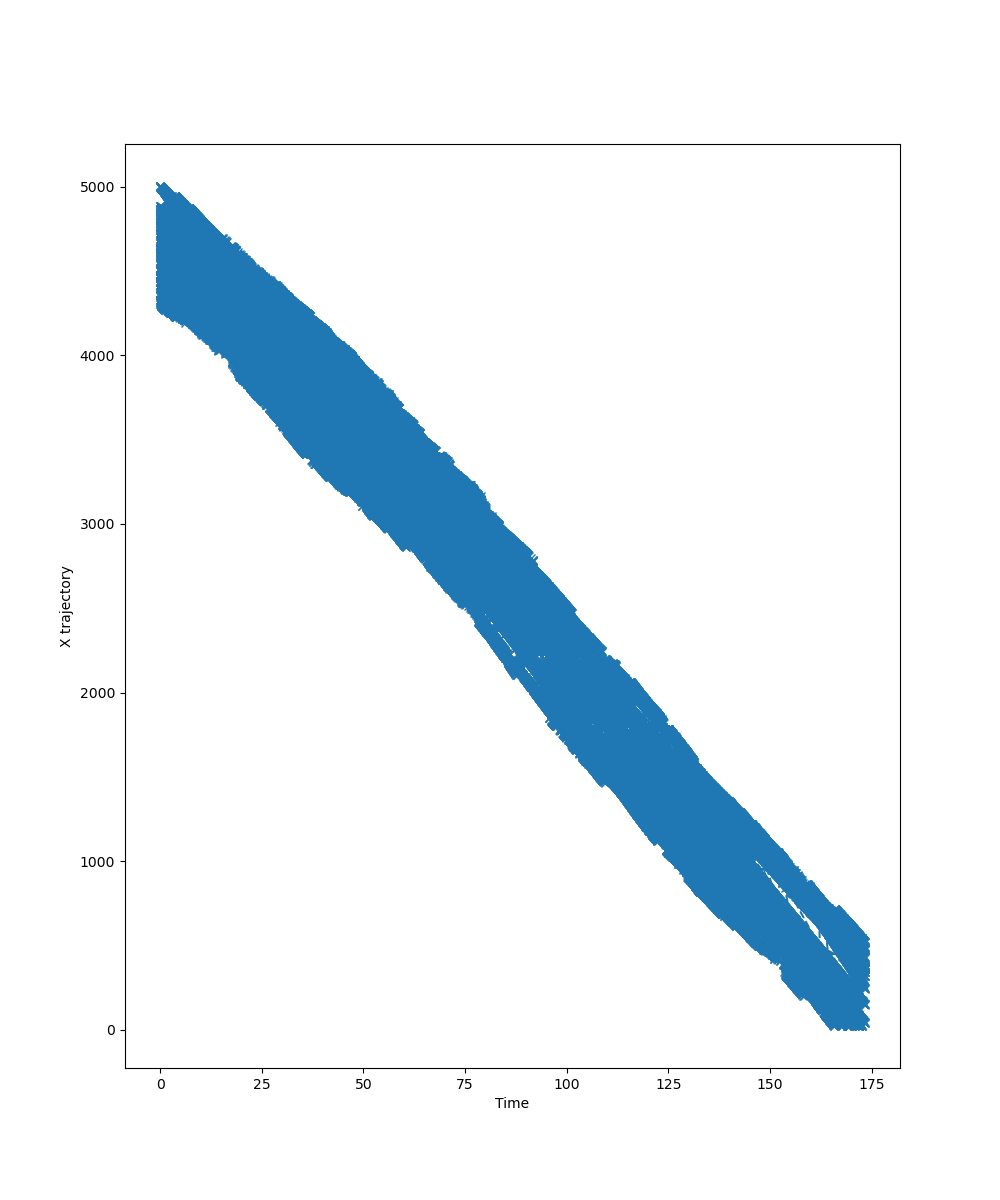
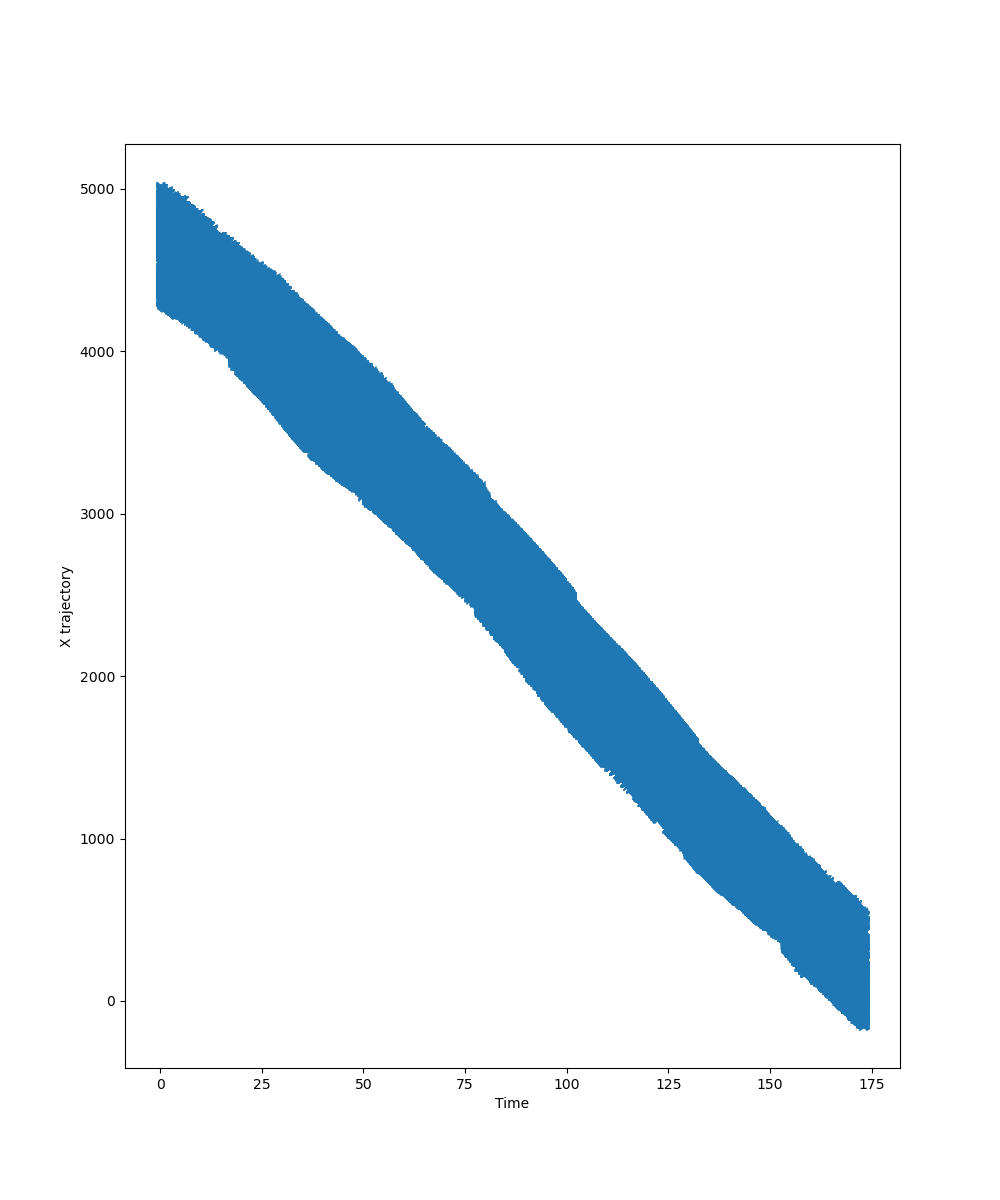
add

diff --git a/conv-social-pooling/codes/predict_environment_works_with_six_maneuvers_model_10_sec.py b/conv-social-pooling/codes/predict_environment_works_with_six_maneuvers_model_10_sec.py
@@ -50,119 +50,101 @@ FOCUS:
 - Rest is one for loop 
 '''
 
-############################################# DATA CLEANING AND PARSING #########################################
-
-def load_from_pickle(filename): # Function to load in the data 
-    with open(filename, 'rb') as file: # open the file 
-        data = pickle.load(file) # load the file into the computer
-
-        if isinstance(data, np.ndarray):  # Convert potential numpy arrays to Python lists
-            data = data.tolist()
-
-        for i, item in enumerate(data): # If the items of data are also numpy arrays, convert them to lists
-            if isinstance(item, np.ndarray): # check if they are numpy arrays 
-                data[i] = item.tolist() # convert each item into list 
-
-    return data # return the trajectory data plots 
-
-def get_shape(obj): # Recursive function to calculate the shape of the trajectory data 
-    if isinstance(obj, list): # if it is a list 
-        if len(obj) == 0: # if empty 
-            return 0, # just return 0
-        shapes = [get_shape(sub_obj) for sub_obj in obj] # get the shapes
-        max_shape = max(shapes, key=lambda x: len(x))
-        return (len(obj),) + max_shape
-    elif isinstance(obj, np.ndarray): # if numpy array
-        return obj.shape # just return the shape 
-    else:
-        return () # This is a leaf node
-
-########################## FUNCTIONS TO FILTER OUT EMPTY LISTS #################################################
-def filter_empty(sublist): # Filter the empty elements in our given input data 
-    if isinstance(sublist, list): # Remove empty lists or arrays
-        return [item for item in (filter_empty(item) for item in sublist) if (isinstance(item, list) and len(item) > 0) or (isinstance(item, np.ndarray) and item.size > 0) or item]
-    elif isinstance(sublist, np.ndarray): # If numpy array is not empty, return the array
-        return sublist if sublist.size > 0 else None # make sure we return the sublist if it is greater than 0, otherwise just return None 
-    return sublist # return the sublist 
-
-
-def filter_points(x, y): # Recursive function to call the filter empty function 
-    return filter_empty(x), filter_empty(y) # call the helper functions 
-################################################################################################################
-
-
-
-def line_integral(x1, y1, x2, y2, obj): # Line integral calculator assuming obj has a shape of (N, 3), where N is the number of maneuvers
-    x1_x2_sq = np.power(x1 - x2, 2)
-    y1_y2_sq = np.power(y1 - y2, 2)
+############################################# LINE INTEGRAL CALCULATIONS #########################################
+def line_integral(x1, y1, x2, y2, obj):
+    # Compute square distances
+    x1_x2_sq = np.square(x1 - x2)
+    y1_y2_sq = np.square(y1 - y2)
     
     denom = 2 * obj[:, 2]
-    denom[denom < 1e-9] = 1e-9  # Ensure no values too close to zero
+    denom = np.clip(denom, 1e-9, np.inf)  # Avoid division by zero
 
     a = (x1_x2_sq + y1_y2_sq) / denom
     b = (-2 * x1 + 2 * x2 + 2 * obj[:, 0] - 2 * x2 * obj[:, 0] + 
          -2 * y1 + 2 * y2 + 2 * obj[:, 1] - 2 * y2 * obj[:, 1]) / denom
-    c = (np.power(x1 - obj[:, 0], 2) + np.power(y1 - obj[:, 1], 2)) / denom
-    
+    c = (np.square(x1 - obj[:, 0]) + np.square(y1 - obj[:, 1])) / denom
+
     # Mask where 'a' is too close to zero
     mask = np.abs(a) >= 1e-9
-    a = a[mask]
-    b = b[mask]
-    c = c[mask]
     
-    # Check if the masked values lead to an empty array. Return 0 if true.
-    if a.size == 0:
+    # Apply the mask
+    a_masked = a[mask]
+    b_masked = b[mask]
+    c_masked = c[mask]
+    obj_masked = obj[mask]
+
+    # Return if empty after masking
+    if a_masked.size == 0:
         return 1e-9
-    
-    denom = 2 * np.sqrt(a)
-    denom[denom < 1e-9] = 1e-9  # Ensure no values too close to zero
 
-    exp_arg = (b * b) / (4 * a) - c
-    exp_arg = np.clip(exp_arg, -20, 20)  # Avoid too large/small arguments for exponential function
+    denom = 2 * np.sqrt(a_masked)
+    denom = np.clip(denom, 1e-9, np.inf)  # Avoid division by zero
 
-    cost = (np.exp(exp_arg) / (2 * np.pi * obj[mask, 2])) * \
-           (1 / np.sqrt(a)) * (np.sqrt(np.pi) / 2) * \
-           (erf(np.sqrt(a) + b / denom) - erf(b / denom)) * \
+    exp_arg = np.clip((b_masked * b_masked) / (4 * a_masked) - c_masked, -20, 20)
+
+    cost = (np.exp(exp_arg) / (2 * np.pi * obj_masked[:, 2])) * \
+           (1 / np.sqrt(a_masked)) * (np.sqrt(np.pi) / 2) * \
+           (erf(np.sqrt(a_masked) + b_masked / denom) - erf(b_masked / denom)) * \
            np.sqrt(x1_x2_sq + y1_y2_sq)
 
     # Normalize the cost using Z-score normalization
-    mean_cost = np.mean(cost) # get the mean of the cost
-    std_cost = np.std(cost) # get the standard deviation of the cost
-    normalized_cost = (cost - mean_cost) / (std_cost + 1e-9)  # added small value to avoid division by zero
+    std_cost = np.std(cost) + 1e-9
+    mean_cost = np.mean(cost)
+    normalized_cost = (cost - mean_cost) / std_cost
 
-    return normalized_cost.sum() # sum up the normalized cost 
- 
- 
+    return normalized_cost.sum()
 
-def create_object(muX, muY, sigX,sigY): # Helper function create an object of normal distribution parameters
-    return np.column_stack([muX, muY, (sigX-sigY)**2]) # Stack up the values
+
+def create_object(muX, muY, sigX, sigY): # Helper function to create an object of muX, muY, sigX, sigY 
+    # Ensure that the tensors do not require gradients before converting to numpy
+    muX_numpy = muX.detach().numpy() if isinstance(muX, torch.Tensor) else muX
+    muY_numpy = muY.detach().numpy() if isinstance(muY, torch.Tensor) else muY
+    sigX_numpy = sigX.detach().numpy() if isinstance(sigX, torch.Tensor) else sigX
+    sigY_numpy = sigY.detach().numpy() if isinstance(sigY, torch.Tensor) else sigY
+
+    return np.column_stack([muX_numpy, muY_numpy, (sigX_numpy-sigY_numpy)**2])
 
  
-def predict_trajectories(x_trajectory, y_trajectory, fut_pred, traj_length, batch_size=16): # function to predict trajectories
+def predict_trajectories(x_trajectory, y_trajectory, fut_pred, traj_length): # function to predict trajectories
     num_maneuvers = len(fut_pred) # This would be 6 because we have 6 possible maneuvers 
     highest_integral_value = float('-inf')  # Initialize with a very small number
     best_trajectory = {
-        'X':[],
-        'y':[],
+        'Maneuver':[],
+        'Optim_Traj':[],
         'Cost':[]
     } # Placeholder for the best trajectory's x and y values
-
+ 
+ 
     for m in range(num_maneuvers): # for each of the 6 maneuvers
+        print(f'maneuver: {m+1}') # just for debugging 
         objects_for_integral = create_object(fut_pred[m][:, :, 0], fut_pred[m][:, :, 1], fut_pred[m][:, :, 2], fut_pred[m][:, :, 3]) # get the muX, muY, sigX, sigY values
-        for b in range(batch_size): # for each b in batch size 
-            x_traj = x_trajectory[m][b][0] # extract the x_traj trajectories
-            y_traj = y_trajectory[m][b][0] # extract the y_traj trajectories
-            total_integral_for_trajectory = sum(line_integral(x_traj[i], y_traj[i], x_traj[i+1], y_traj[i+1], objects_for_integral) for i in range(traj_length-1)) # sum up the line integrals
-            
-            if total_integral_for_trajectory > highest_integral_value: # Check if this trajectory has the highest integral value so far
-                highest_integral_value = total_integral_for_trajectory # update the highest integral value
-                # print(f'highest integral: {highest_integral_value}') # just to check for debugging 
-                best_trajectory['X'] = x_traj # assign the x trajectories
-                best_trajectory['y'] = y_traj # assign the y trajectories 
-                best_trajectory['Cost'] = highest_integral_value # assign the highest_integral_value
+        total_integral_for_trajectory = sum(line_integral(x_trajectory[i], y_trajectory[i], x_trajectory[i+1], y_trajectory[i+1], objects_for_integral) for i in range(traj_length-1)) # sum up the line integrals
+        if total_integral_for_trajectory > highest_integral_value: # Check if this trajectory has the highest integral value so far
+            highest_integral_value = total_integral_for_trajectory # update the highest integral value
+            best_trajectory['Maneuver'] = m + 1 # assign the best maneuver 
+            best_trajectory['Optim_Traj'] = fut_pred[m] # assign the best trajectories
+            best_trajectory['Cost'] = highest_integral_value # assign the highest_integral_value
 
-    #print(f'highest integral: {highest_integral_value}') # just to check for debugging 
+    print(f'highest integral: {highest_integral_value}') # just to check for debugging 
+    print(f'best_trajectory: {best_trajectory}') # just to check for debugging 
     return best_trajectory # return the best trajectory dictionary  
+
+
+def plot_trajectory(time,x_trajectory,y_trajectory):
+    x = x_trajectory 
+    y = y_trajectory
+ 
+    plt.figure(figsize=(10,12))
+    plt.xlabel('Time')
+    plt.ylabel('X trajectory')
+    plt.plot(time,x,marker='x',linestyle='dashed') 
+    plt.savefig('plot_x.png')
+
+    plt.figure(figsize=(10,12))
+    plt.xlabel('Time')
+    plt.ylabel('y trajectory')
+    plt.plot(time,y,marker='x',linestyle='dashed',) 
+    plt.savefig('plot_y.png')
 
 
 def main(): # Main function 
@@ -206,32 +188,20 @@ def main(): # Main function
     filepath_pred_Set = 'cee497projects/trajectory-prediction/data/101-80-speed-maneuver-for-GT/10-seconds/test' # HAL GPU Cluster
     
     ######################################################################################################################################################
-    temp_x_trajectory_directory = 'train_trajectory_x.data'
-    temp_y_trajectory_directory = 'train_trajectory_y.data'
+    trajectories_data = pd.read_csv('raw_trajectory.csv') 
+    traj_time = trajectories_data['time']
+    x_trajectory = trajectories_data['xloc'] # first plot the x trajectory 
+    y_trajectory = trajectories_data['yloc']  # first plot y trajectory  
+    traj_length = x_trajectory.shape[0] # length of the trajectory
+    print(f'Trajectory length: {traj_length}')
 
-    x_trajectory_directory = trajectories_directory + temp_x_trajectory_directory
-    y_trajectory_directory = trajectories_directory + temp_y_trajectory_directory
+    ###################################################################################
+    # print(f'x-trajectory: {x_trajectory}' )
+    # print(f'y-trajectory: {y_trajectory}')
 
-    x_trajectory = load_from_pickle(x_trajectory_directory)
-    y_trajectory = load_from_pickle(y_trajectory_directory)
-    # print("Shape of x data:", get_shape(x_trajectory))
-    # print("Shape of y data:", get_shape(y_trajectory))
-
-    x_trajectory,y_trajectory = filter_points(x_trajectory,y_trajectory)
-
-    # print(f'x-traj: {x_trajectory}')
-    # print(f'y-traj: {y_trajectory}')
-
-    # x_trajectory = torch.tensor(x_trajectory,device=device)
-    # y_trajectory = torch.tensor(y_trajectory,device=device)
-    
-    print("Shape of x data:", get_shape(x_trajectory))
-    print("Shape of y data:", get_shape(y_trajectory))    
-
-    manuever_len,d2,d3,traj_len = get_shape(x_trajectory)
-
-    batch_size = 16 # batch size for the model and choose from [1,2,4,8,16,32,64,128,256]
-    temp_stop = 1000 # index where we want to stop the simulation
+    #plot_trajectory(traj_time,x_trajectory,y_trajectory) # plot the x and y trajectories verses time respectively
+    batch_size = 1 # batch size for the model and choose from [1,2,4,8,16,32,64,128,256]
+    temp_stop = 100 # index where we want to stop the simulation
 
     # Initialize network 
     net = highwayNet_six_maneuver(args) # we are going to initialize the network 
@@ -251,7 +221,7 @@ def main(): # Main function
     lossVals = torch.zeros(50).to(device) # Louis code
     counts = torch.zeros(50).to(device) # Louis code
 
-    ######################### TRAIN & VALIDATION LOSS VALUES #######################################
+    ######################### TRAIN & VALIDATION LOSS VALUES ############################################################
     accuracy = [] # we are going to store the accuracy values 
     train_loss = [] # we are going to store the training loss values 
     val_loss = [] # we are going to store the validation loss values 
@@ -329,16 +299,10 @@ def main(): # Main function
             #     print('fut_pred_point.shape should be (6,t_f//d_s,5): ', fut_pred_point.shape)
             #     print('maneuver_m.shape should be (6,):', maneuver_m.shape)
 
-        predicted_traj = predict_trajectories(x_trajectory,y_trajectory,fut_pred_np,traj_len,batch_size=batch_size) # where the function is called and I feed in maneurver pred and future prediction points 
-        print(f'predicted_traj X: {predicted_traj["X"]}') # debugging
-        print(f'predicted_traj y: {predicted_traj["y"]}') # debugging
-        print(f'Cost: {predicted_traj["Cost"]}') # debugging
-        
+        predicted_traj = predict_trajectories(x_trajectory, y_trajectory, fut_pred, traj_length) # where the function is called and I feed in maneurver pred and future prediction points         
         output_results.append(predicted_traj) # output result is a list of predicted trajectory dictionaries 
         #print(f'output results: {output_results}')
    
- 
- 
     # Test Error
     mse = lossVals / counts # mean squared error
     rmse = np.sqrt(mse) # root mean sqaured error 
@@ -357,6 +321,9 @@ def main(): # Main function
 
     with open(directory+saving_directory+"maneuver_predictions.data", "wb") as filehandle:
         pickle.dump(np.array(maneuver_predictions), filehandle, protocol=4)
+    
+    with open(directory+saving_directory+"output_results.data", "wb") as filehandle:
+        pickle.dump(np.array(output_results), filehandle, protocol=4)
 
 if __name__ == '__main__': # run the code
     main() # call the main function 

diff --git a/conv-social-pooling/codes/louis_predict_environment_six_maneuvers_model_10_sec.py b/conv-social-pooling/codes/louis_predict_environment_six_maneuvers_model_10_sec.py
@@ -50,60 +50,7 @@ FOCUS:
 - Rest is one for loop 
 '''
 
-############################################# DATA CLEANING AND PARSING #########################################
-
-# def load_from_pickle(filename): # Function to load in the data 
-#     with open(filename, 'rb') as file: # open the file 
-#         data = pickle.load(file) # load the file into the computer
-
-#         if isinstance(data, np.ndarray):  # Convert potential numpy arrays to Python lists
-#             data = data.tolist()
-
-#         for i, item in enumerate(data): # If the items of data are also numpy arrays, convert them to lists
-#             if isinstance(item, np.ndarray): # check if they are numpy arrays 
-#                 data[i] = item.tolist() # convert each item into list 
-
-#     return data # return the trajectory data plots 
-
-# def get_shape(obj): # Recursive function to calculate the shape of the trajectory data 
-#     if isinstance(obj, list): # if it is a list 
-#         if len(obj) == 0: # if empty 
-#             return 0, # just return 0
-#         shapes = [get_shape(sub_obj) for sub_obj in obj] # get the shapes
-#         max_shape = max(shapes, key=lambda x: len(x))
-#         return (len(obj),) + max_shape
-#     elif isinstance(obj, np.ndarray): # if numpy array
-#         return obj.shape # just return the shape 
-#     else:
-#         return () # This is a leaf node
-
-# ########################## FUNCTIONS TO FILTER OUT EMPTY LISTS #################################################
-# def filter_empty(sublist): # Filter the empty elements in our given input data 
-#     if isinstance(sublist, list): # Remove empty lists or arrays
-#         return [item for item in (filter_empty(item) for item in sublist) if (isinstance(item, list) and len(item) > 0) or (isinstance(item, np.ndarray) and item.size > 0) or item]
-#     elif isinstance(sublist, np.ndarray): # If numpy array is not empty, return the array
-#         return sublist if sublist.size > 0 else None # make sure we return the sublist if it is greater than 0, otherwise just return None 
-#     return sublist # return the sublist 
-
-
-# def filter_points(x, y): # Recursive function to call the filter empty function 
-#     return filter_empty(x), filter_empty(y) # call the helper functions 
-# ################################################################################################################
-
- 
-# def line_integral (x1, y1, x2, y2, obj): #obj = [[mu_x, mu_y, sigma_square], [mu_x, mu_y, sigma_square], ...] # Line integral calculator assuming obj has a shape of (N, 3), where N is the number of maneuvers
-#     cost = 0
-#     for i in range(len(obj)):
-#         a = (math.pow(x1 - x2, 2) + math.pow(y1 - y2, 2)) * (1 / (2*obj[i][2]))
-#         b = ((-2 * x1 * x1 + 2 * x1 * x2 + 2 * x1 * obj[i][0] - 2 * x2 * obj[i][0]) + \
-#             (-2 * y1 * y1 + 2 * y1 * y2 + 2 * y1 * obj[i][1] - 2 * y2 * obj[i][1])) * (1 / (2*obj[i][2]))
-#         c = (math.pow(x1 - obj[i][0], 2) + math.pow(y1 - obj[i][1], 2)) * (1 / (2*obj[i][2]))
-  
-#         cost = cost + (math.exp(((b * b) / (4 * a)) - c) / (2 * math.pi * obj[i][2])) * (1 / math.sqrt(a)) *  \
-#             (math.sqrt(math.pi) / 2) * (math.erf(math.sqrt(a) + b / (2*math.sqrt(a))) - math.erf(b / (2*math.sqrt(a)))) * \
-#             math.sqrt(math.pow(x1 - x2, 2) + math.pow(y1 - y2, 2))
-#     return cost
- 
+############################################# LINE INTEGRAL CALCULATIONS #########################################
 def line_integral(x1, y1, x2, y2, obj):
     # Compute square distances
     x1_x2_sq = np.square(x1 - x2)
@@ -147,9 +94,8 @@ def line_integral(x1, y1, x2, y2, obj):
 
     return normalized_cost.sum()
 
- 
 
-def create_object(muX, muY, sigX, sigY):
+def create_object(muX, muY, sigX, sigY): # Helper function to create an object of muX, muY, sigX, sigY 
     # Ensure that the tensors do not require gradients before converting to numpy
     muX_numpy = muX.detach().numpy() if isinstance(muX, torch.Tensor) else muX
     muY_numpy = muY.detach().numpy() if isinstance(muY, torch.Tensor) else muY
@@ -242,7 +188,7 @@ def main(): # Main function
     #filepath_pred_Set = 'cee497projects/trajectory-prediction/data/101-80-speed-maneuver-for-GT/10-seconds/test' # HAL GPU Cluster
     
     ######################################################################################################################################################
-    trajectories_data = pd.read_csv('raw_trajectory_ongoing.csv') 
+    trajectories_data = pd.read_csv('raw_trajectory.csv') 
     traj_time = trajectories_data['time']
     x_trajectory = trajectories_data['xloc'] # first plot the x trajectory 
     y_trajectory = trajectories_data['yloc']  # first plot y trajectory  
@@ -253,7 +199,7 @@ def main(): # Main function
     # print(f'x-trajectory: {x_trajectory}' )
     # print(f'y-trajectory: {y_trajectory}')
 
-    plot_trajectory(traj_time,x_trajectory,y_trajectory) # plot the x and y trajectories verses time respectively
+    #plot_trajectory(traj_time,x_trajectory,y_trajectory) # plot the x and y trajectories verses time respectively
     batch_size = 1 # batch size for the model and choose from [1,2,4,8,16,32,64,128,256]
     temp_stop = 10 # index where we want to stop the simulation
 
@@ -275,7 +221,7 @@ def main(): # Main function
     lossVals = torch.zeros(50).to(device) # Louis code
     counts = torch.zeros(50).to(device) # Louis code
 
-    ######################### TRAIN & VALIDATION LOSS VALUES #######################################
+    ######################### TRAIN & VALIDATION LOSS VALUES ############################################################
     accuracy = [] # we are going to store the accuracy values 
     train_loss = [] # we are going to store the training loss values 
     val_loss = [] # we are going to store the validation loss values 
